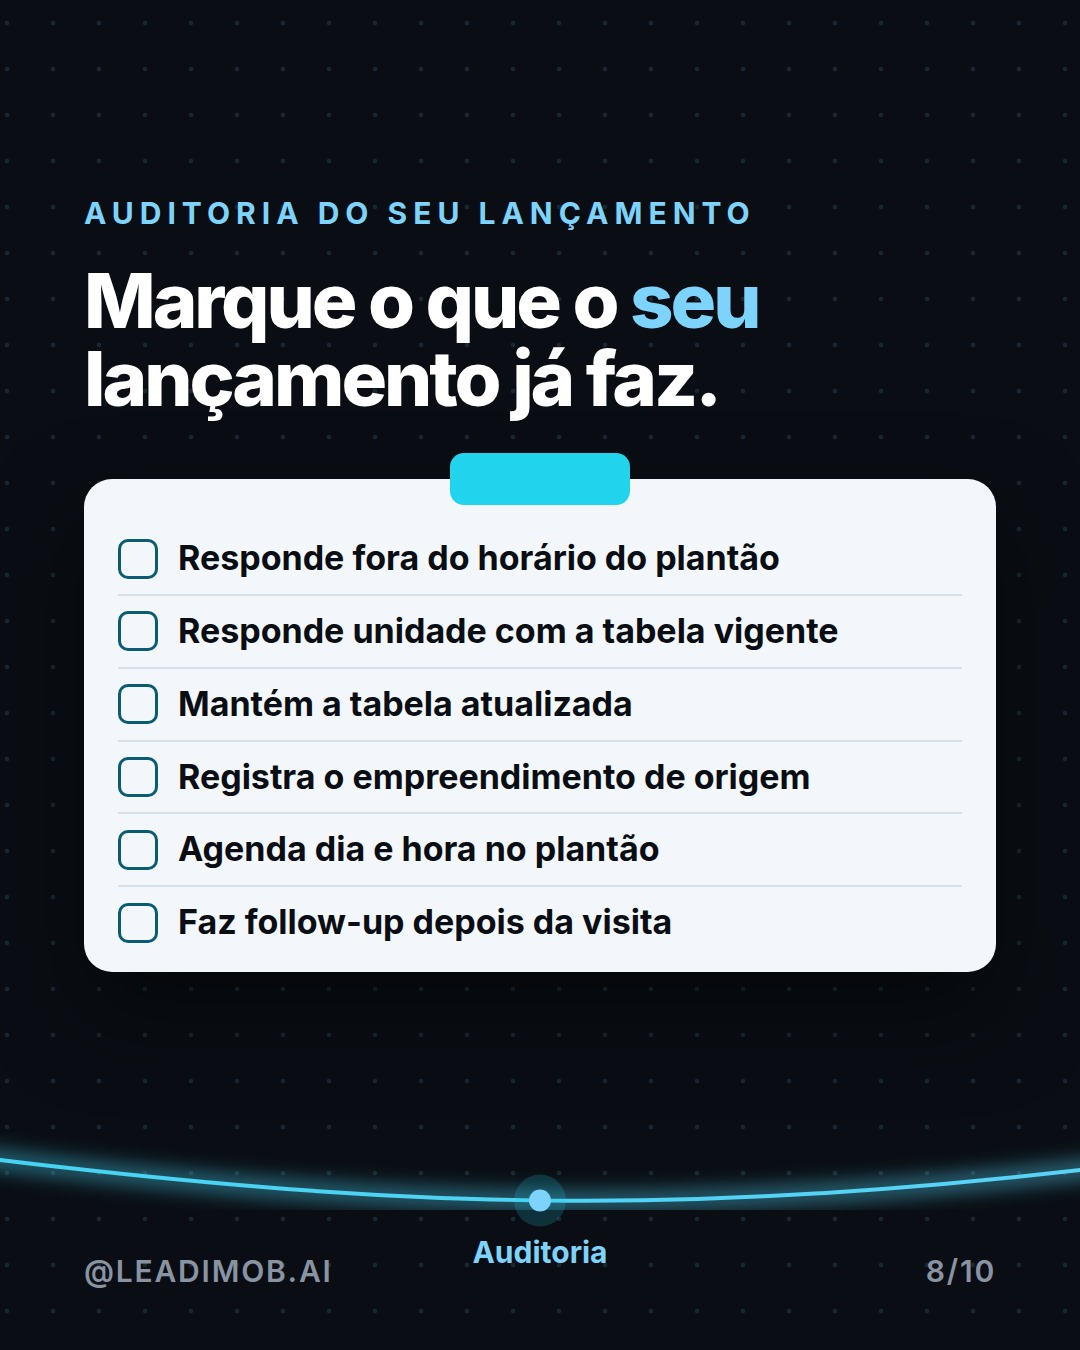
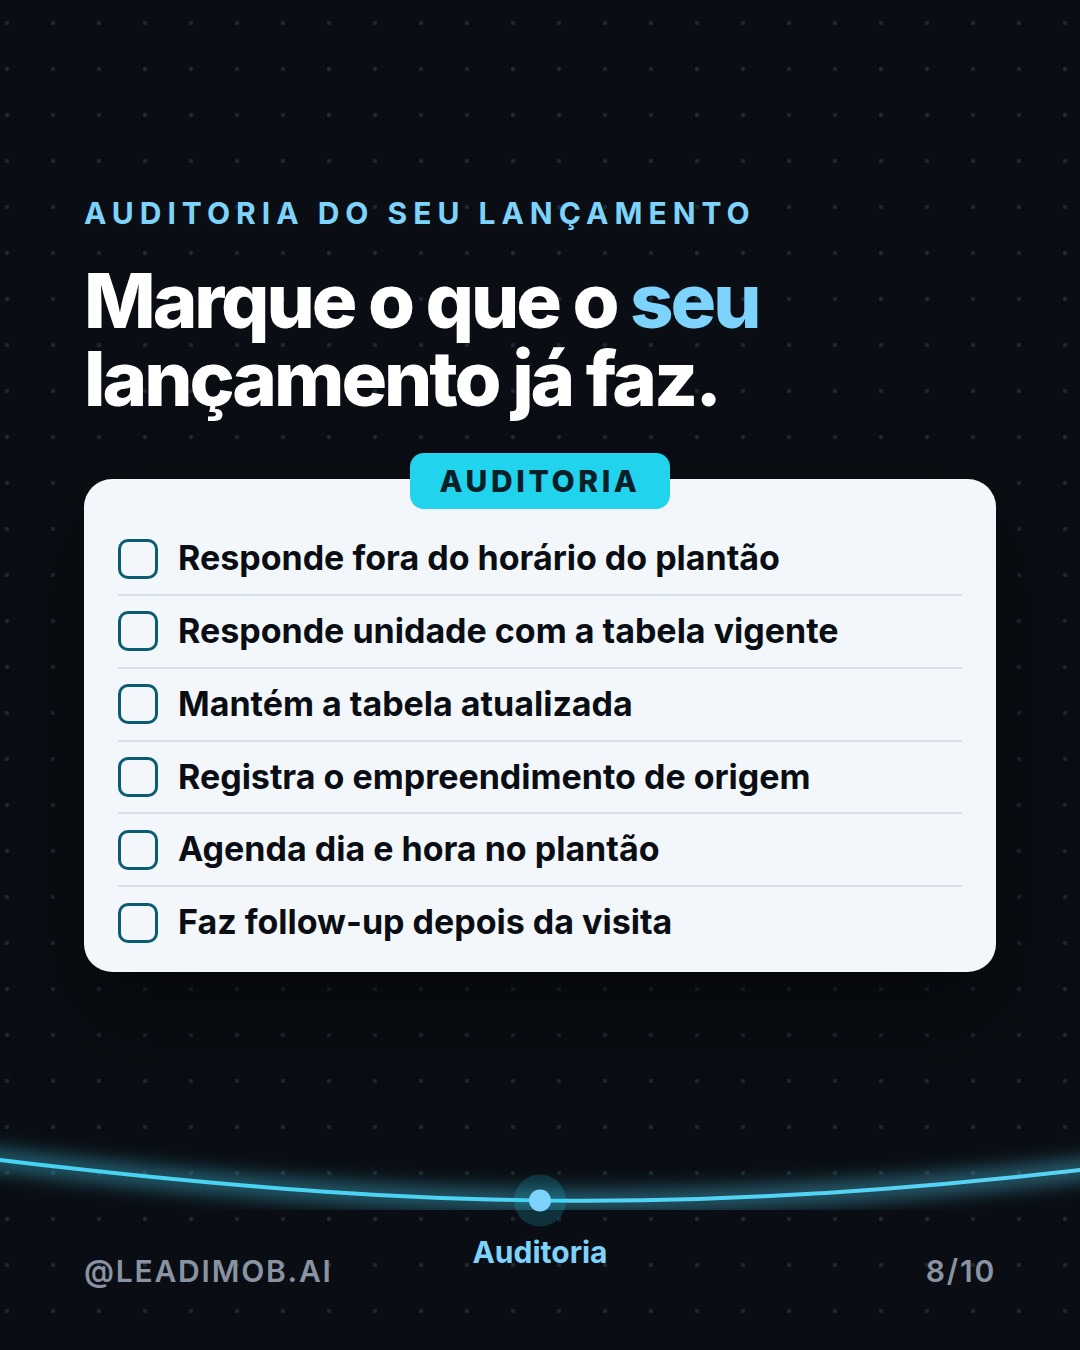
06/10: carrossel ajustes finais (parcial)
Claude-Session: https://claude.ai/code/session_018r7VijXCsT7Rsbfxa2wopL

Changed region(s): [[0.3667, 0.3111, 0.6417, 0.4044]]

diff --git a/instagram/2026-10-06/src/c1-index.html b/instagram/2026-10-06/src/c1-index.html
@@ -110,7 +110,7 @@ body{background:#0A0E14;width:10800px;height:1350px;overflow:hidden;font-family:
 <div class="sl" style="left:3240px"><div class="ghost">03</div>
  <div class="prog"><i class="on"></i><i class="on"></i><i class="cur"></i><i class=""></i><i class=""></i><i class=""></i></div><div class="ttl"><div class="num">03</div><div class="kick">A tabela desatualizada</div></div>
  <div class="h2" style="">A tabela do cliente e a <span class="hl">tabela real</span> não batem.</div>
- <div style="margin-top:50px;display:flex;gap:18px"><div class="col" style="border-color:#7DD3FC"><div class="lab" style="color:#7DD3FC;font-size:30px;margin-bottom:8px">Planilha de ontem</div><div class="row" style="font-size:34px;padding:18px 0"><span>Tipo A</span><span class="tag" style="background:rgba(52,211,153,.14);color:#6EE7B7">Livre</span></div><div class="row" style="font-size:34px;padding:18px 0"><span>Tipo B</span><span class="tag" style="background:rgba(52,211,153,.14);color:#6EE7B7">Livre</span></div><div class="row" style="font-size:34px;padding:18px 0"><span>Cobertura</span><span class="tag" style="background:rgba(52,211,153,.14);color:#6EE7B7">Livre</span></div></div><div class="col" style="border-color:#F59E0B"><div class="lab" style="color:#F59E0B;font-size:30px;margin-bottom:8px">Situação hoje</div><div class="row" style="font-size:34px;padding:18px 0"><span>Tipo A</span><span class="tag" style="background:rgba(52,211,153,.14);color:#6EE7B7">Livre</span></div><div class="row" style="font-size:34px;padding:18px 0"><span>Tipo B</span><span class="tag" style="background:rgba(245,158,11,.14);color:#FBBF24">Reservada</span></div><div class="row" style="font-size:34px;padding:18px 0"><span>Cobertura</span><span class="tag" style="background:rgba(245,158,11,.14);color:#FBBF24">Vendida</span></div></div></div>
+ <div style="margin-top:50px;display:flex;gap:18px"><div class="col" style="border-color:#7DD3FC"><div class="lab" style="color:#7DD3FC;font-size:30px;margin-bottom:8px">Planilha de ontem</div><div class="row" style="font-size:34px;padding:18px 0"><span>Tipo A</span><span class="tag" style="background:rgba(52,211,153,.14);color:#6EE7B7">Livre</span></div><div class="row" style="font-size:34px;padding:18px 0"><span>Tipo B</span><span class="tag" style="background:rgba(52,211,153,.14);color:#6EE7B7">Livre</span></div><div class="row" style="font-size:34px;padding:18px 0"><span>Cobertura</span><span class="tag" style="background:rgba(52,211,153,.14);color:#6EE7B7">Livre</span></div></div><div class="col" style="border-color:#7DD3FC"><div class="lab" style="color:#7DD3FC;font-size:32px;margin-bottom:8px">Situação hoje</div><div class="row" style="font-size:34px;padding:18px 0"><span>Tipo A</span><span class="tag" style="background:rgba(52,211,153,.14);color:#6EE7B7">Livre</span></div><div class="row" style="font-size:34px;padding:18px 0"><span>Tipo B</span><span class="tag" style="background:rgba(245,158,11,.14);color:#FBBF24">Reservada</span></div><div class="row" style="font-size:34px;padding:18px 0"><span>Cobertura</span><span class="tag" style="background:rgba(125,211,252,.12);color:#9AA6B8">Vendida</span></div></div></div>
  <div class="p" style="margin-top:44px">Oferecer o que já saiu custa a confiança do lead.</div>
  <div class="foot"><span>@LEADIMOB.AI</span><span>4/10</span></div>
 </div>
@@ -154,7 +154,7 @@ body{background:#0A0E14;width:10800px;height:1350px;overflow:hidden;font-family:
  <div class="kick">Auditoria do seu lançamento</div>
  <div class="h2" style="margin-top:34px">Marque o que o <span class="hl">seu</span> lançamento já faz.</div>
  <div style="margin-top:62px;position:relative">
-  <div style="position:absolute;left:50%;top:-26px;margin-left:-90px;width:180px;height:52px;border-radius:14px;background:#22D3EE;z-index:2"></div>
+  <div style="position:absolute;left:50%;top:-26px;margin-left:-130px;width:260px;height:56px;border-radius:14px;background:#22D3EE;z-index:2;display:flex;align-items:center;justify-content:center;font:800 30px/1 IN;letter-spacing:.12em;color:#06202A">AUDITORIA</div>
   <div style="border-radius:28px;background:#F3F7FB;padding:44px 34px 14px;box-shadow:0 40px 90px rgba(0,0,0,.5)"><div style="display:flex;align-items:center;gap:20px;padding:15px 0;border-bottom:2px solid #D6E0EA;font:700 34px/1.2 IN;color:#0A0E14"><span style="flex:none;width:40px;height:40px;border-radius:10px;border:3px solid #0B5C73"></span>Responde fora do horário do plantão</div><div style="display:flex;align-items:center;gap:20px;padding:15px 0;border-bottom:2px solid #D6E0EA;font:700 34px/1.2 IN;color:#0A0E14"><span style="flex:none;width:40px;height:40px;border-radius:10px;border:3px solid #0B5C73"></span>Responde unidade com a tabela vigente</div><div style="display:flex;align-items:center;gap:20px;padding:15px 0;border-bottom:2px solid #D6E0EA;font:700 34px/1.2 IN;color:#0A0E14"><span style="flex:none;width:40px;height:40px;border-radius:10px;border:3px solid #0B5C73"></span>Mantém a tabela atualizada</div><div style="display:flex;align-items:center;gap:20px;padding:15px 0;border-bottom:2px solid #D6E0EA;font:700 34px/1.2 IN;color:#0A0E14"><span style="flex:none;width:40px;height:40px;border-radius:10px;border:3px solid #0B5C73"></span>Registra o empreendimento de origem</div><div style="display:flex;align-items:center;gap:20px;padding:15px 0;border-bottom:2px solid #D6E0EA;font:700 34px/1.2 IN;color:#0A0E14"><span style="flex:none;width:40px;height:40px;border-radius:10px;border:3px solid #0B5C73"></span>Agenda dia e hora no plantão</div><div style="display:flex;align-items:center;gap:20px;padding:15px 0;border-bottom:0;font:700 34px/1.2 IN;color:#0A0E14"><span style="flex:none;width:40px;height:40px;border-radius:10px;border:3px solid #0B5C73"></span>Faz follow-up depois da visita</div></div>
  </div>
  <div class="foot"><span>@LEADIMOB.AI</span><span>8/10</span></div>
@@ -180,7 +180,7 @@ body{background:#0A0E14;width:10800px;height:1350px;overflow:hidden;font-family:
   <div style="width:300px;height:96px;border-radius:22px;background:#F3F7FB;display:flex;align-items:center;justify-content:center;box-shadow:0 20px 44px rgba(0,0,0,.5)"><img src="logo.png" style="width:240px"></div>
   <div style="font:700 36px/1 IN;color:#7DD3FC">@leadimob.ai</div>
  </div>
- <div class="chip cy" style="margin-top:36px;font-size:32px;padding:20px 28px;white-space:normal;line-height:1.15">Solicite uma demonstração — link na bio</div>
+ <div class="chip cy" style="margin-top:36px;max-width:100%;font-size:32px;padding:20px 28px;white-space:normal;line-height:1.15">Solicite uma demonstração — link na bio</div>
  <div class="foot"><span>@LEADIMOB.AI</span><span>10/10</span></div>
 </div>
 </div>
